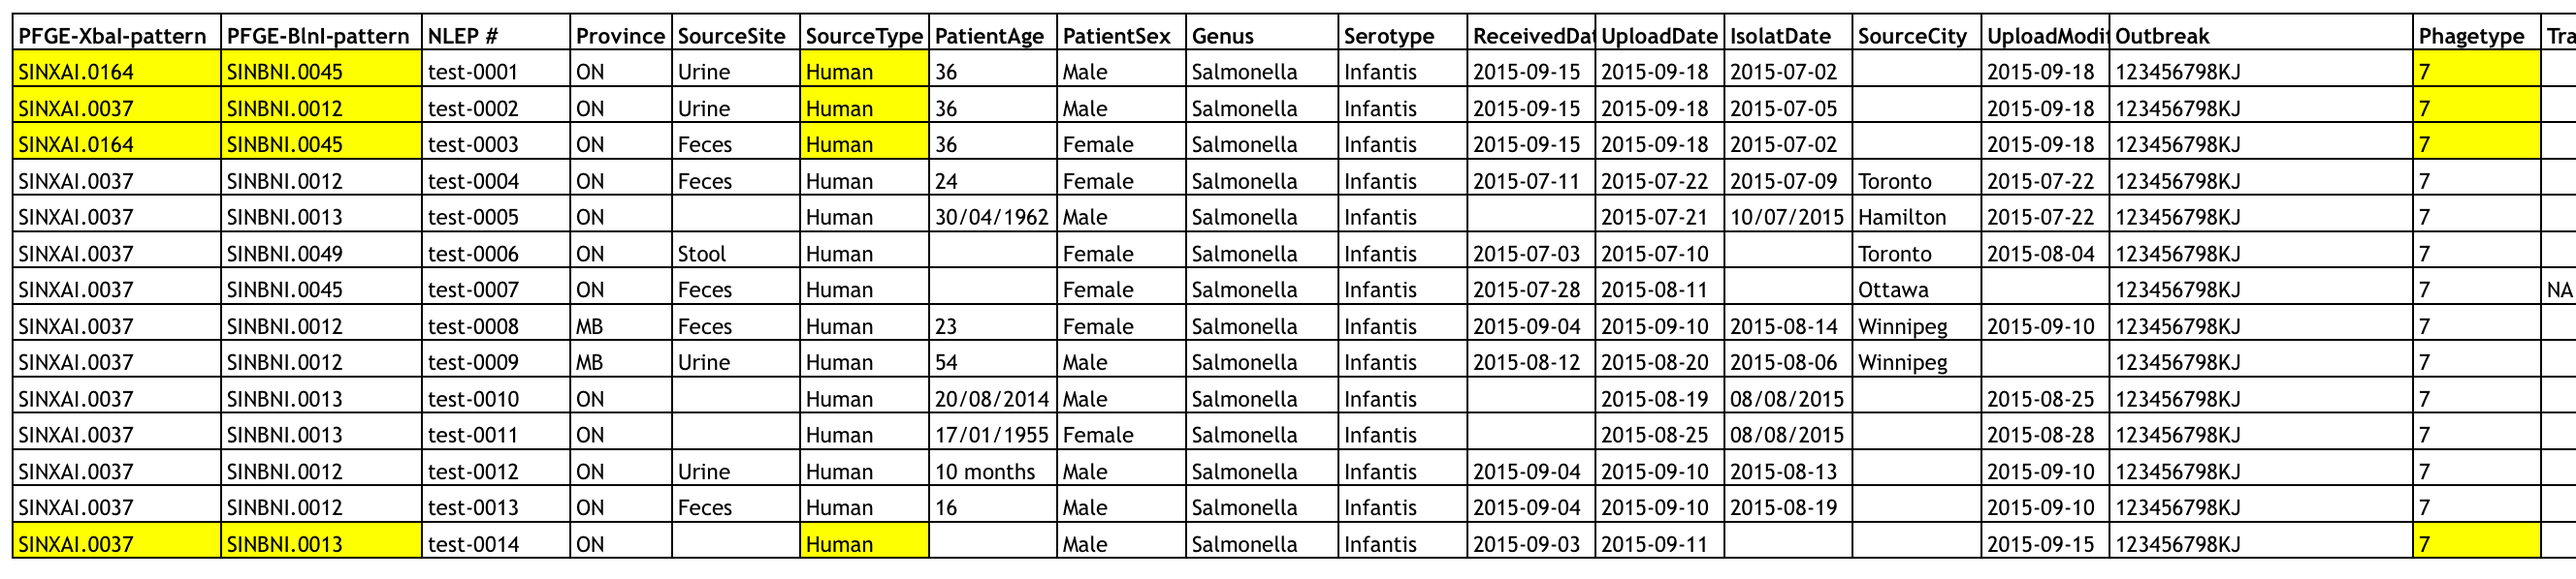
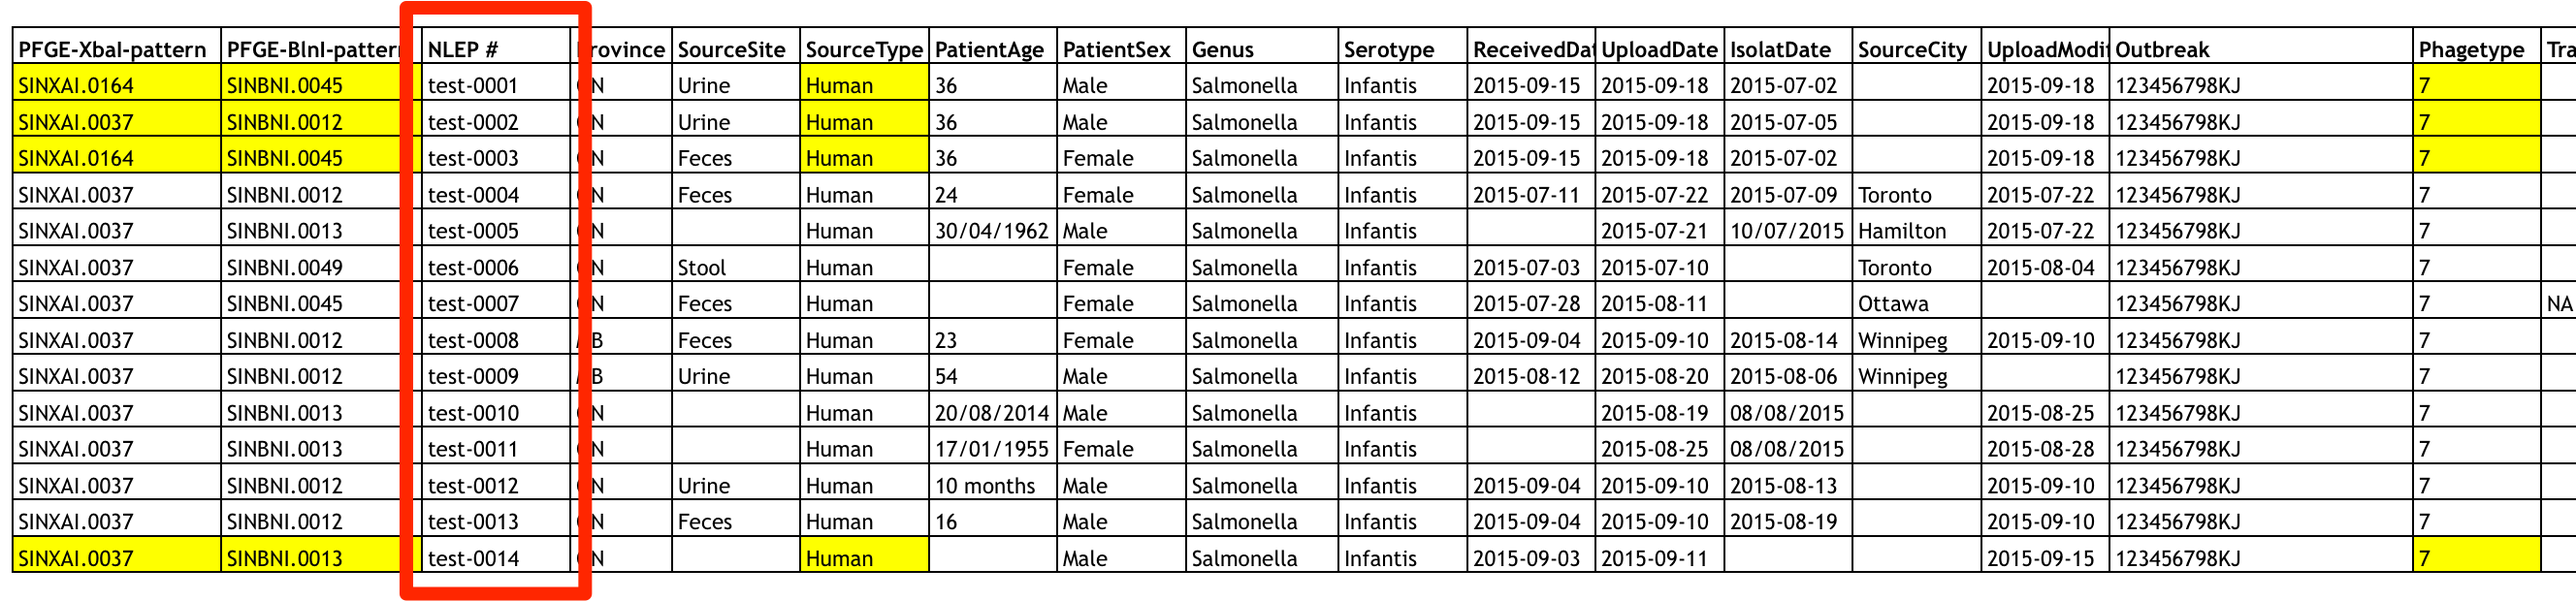
Uploading good and bad samples

Changed region(s): [[0.0, 0.0, 1.0, 1.0]]

diff --git a/doc/user/user/sample-metadata/index.md b/doc/user/user/sample-metadata/index.md
@@ -33,4 +33,16 @@ Links to the upload page can be found:
 
 Uploading Excel Spreadsheet
 ===========================
+
+<strong style="background-color: rgba(240, 173, 78, 1.00); padding: 5px; font-weight: bold">Please not that this feature is still under development.</strong>
+
 ![Excel Spreadsheet Example](images/spreadsheet.png)
+
+Any excel spreadsheet containing metadata for samples in a project can be uploaded through the IRIDA web interface.  One of the column in the table __must__ correspond to the sample name within the project.  In this example spreadsheet, the `NLEP #` column is the sample name.
+
+![Demonstration of uploading Excel Spreadsheet](images/upload_bulk_metadata.gif)
+
+If there are sample names that do not correspond to samples in the project, they will be displayed in the `Rows not matching samples` tab.
+
+![Bad Samples Rows](images/bad_sample_rows.png)
+
